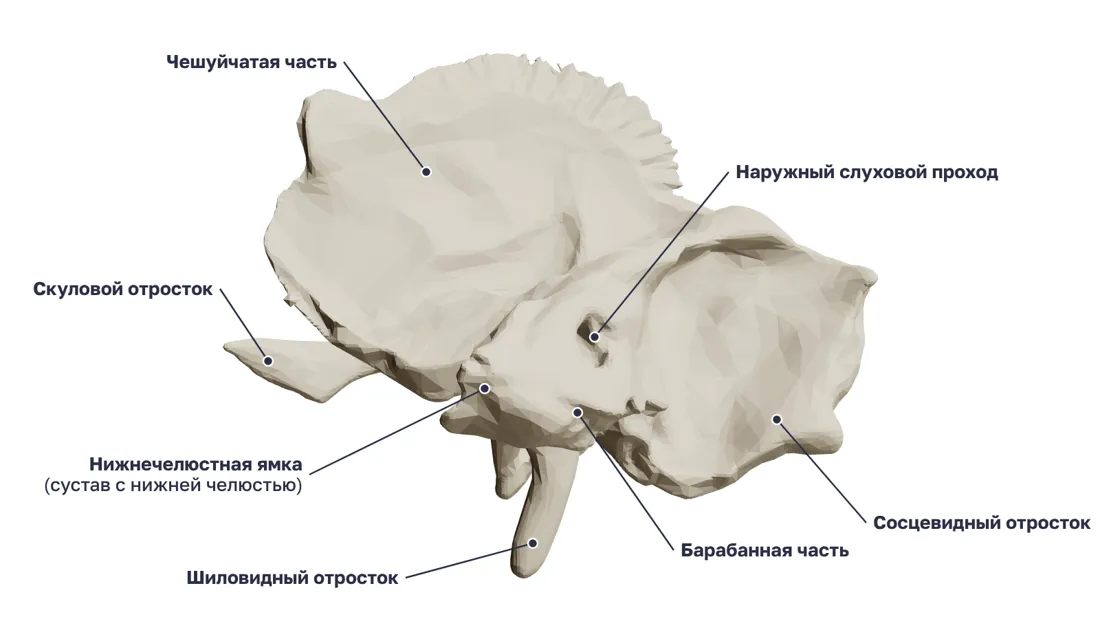
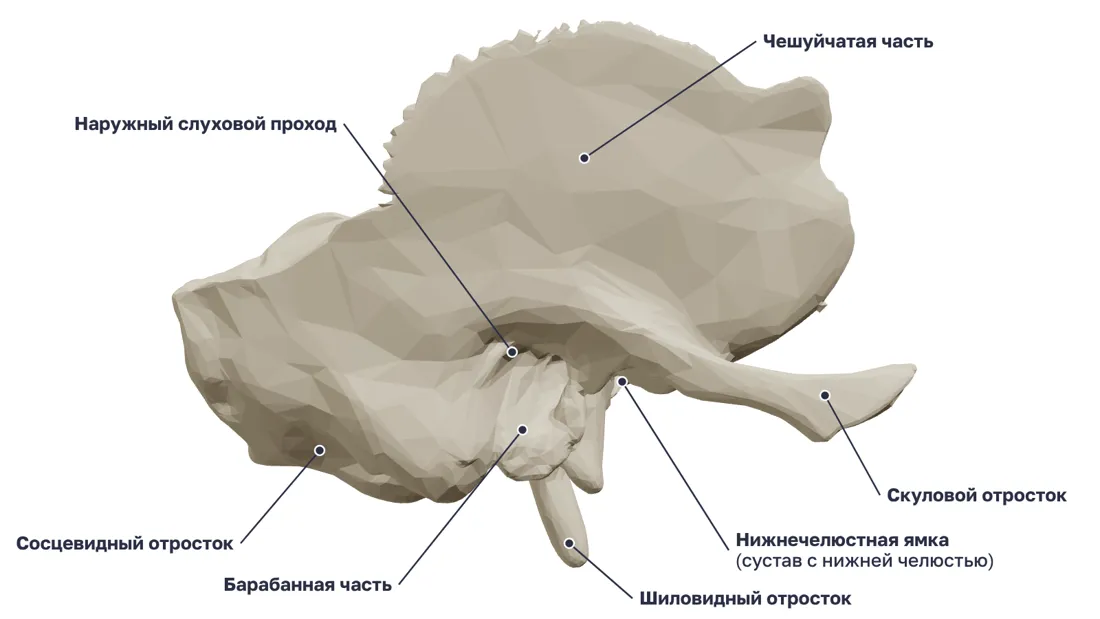
Анатомия 11: исправлен рисунок височной кости (вид снаружи), добавлен вид изнутри
Claude-Session: https://claude.ai/code/session_01KQtAKBGwSUDf54YMdr84nf

diff --git a/index.html b/index.html
@@ -6926,7 +6926,7 @@ const ANAT_11 = {
     ]},
     { title: 'Височная кость: строение', blocks: [
       ['sut', 'Парная кость основания и боковой стенки черепа. Внутри — орган слуха и равновесия, через неё проходят сонная артерия и лицевой нерв.'],
-      ['img', 'img/anat11/temporal-lateral.webp', 'Правая височная кость, вид снаружи. ' + BP3D],
+      ['img', 'img/anat11/temporal-lateral.webp', 'Правая височная кость, вид снаружи (спереди — справа). ' + BP3D],
       ['table', ['Часть', 'Что на ней'], [
         ['<b>Чешуйчатая</b> (чешуя)', 'скуловой отросток (вместе со скуловой костью — скуловая дуга), <b>нижнечелюстная ямка</b> и суставной бугорок — для ВНЧС'],
         ['<b>Барабанная</b>', 'изогнутая пластинка вокруг <b>наружного слухового прохода</b>'],
@@ -6940,6 +6940,7 @@ const ANAT_11 = {
         '<b>Нижняя</b> (снаружи, на основании черепа): яремная ямка, наружное отверстие сонного канала, каменистая ямочка, шиловидный отросток, <b>шилососцевидное отверстие</b>.',
         '<b>Верхушка</b> направлена вперёд и медиально, к клиновидной кости; здесь внутреннее отверстие сонного канала и вход в мышечно-трубный канал.',
       ]],
+      ['img', 'img/anat11/temporal-medial.webp', 'Правая височная кость, вид изнутри (со стороны полости черепа): пирамида и внутреннее слуховое отверстие. ' + BP3D],
       ['simple', 'Височная кость — как дом с подвалом: чешуя — стена, сосцевидный отросток — пристройка с «пустыми комнатками»-ячейками, а пирамида — подвал, где спрятано ухо и через который, как трубы, идут каналы с сосудами и нервами.'],
     ]},
     { title: 'Каналы височной кости и что через них проходит', blocks: [

diff --git a/src/data_anat.js b/src/data_anat.js
@@ -71,7 +71,7 @@ const ANAT_11 = {
     ]},
     { title: 'Височная кость: строение', blocks: [
       ['sut', 'Парная кость основания и боковой стенки черепа. Внутри — орган слуха и равновесия, через неё проходят сонная артерия и лицевой нерв.'],
-      ['img', 'img/anat11/temporal-lateral.webp', 'Правая височная кость, вид снаружи. ' + BP3D],
+      ['img', 'img/anat11/temporal-lateral.webp', 'Правая височная кость, вид снаружи (спереди — справа). ' + BP3D],
       ['table', ['Часть', 'Что на ней'], [
         ['<b>Чешуйчатая</b> (чешуя)', 'скуловой отросток (вместе со скуловой костью — скуловая дуга), <b>нижнечелюстная ямка</b> и суставной бугорок — для ВНЧС'],
         ['<b>Барабанная</b>', 'изогнутая пластинка вокруг <b>наружного слухового прохода</b>'],
@@ -85,6 +85,7 @@ const ANAT_11 = {
         '<b>Нижняя</b> (снаружи, на основании черепа): яремная ямка, наружное отверстие сонного канала, каменистая ямочка, шиловидный отросток, <b>шилососцевидное отверстие</b>.',
         '<b>Верхушка</b> направлена вперёд и медиально, к клиновидной кости; здесь внутреннее отверстие сонного канала и вход в мышечно-трубный канал.',
       ]],
+      ['img', 'img/anat11/temporal-medial.webp', 'Правая височная кость, вид изнутри (со стороны полости черепа): пирамида и внутреннее слуховое отверстие. ' + BP3D],
       ['simple', 'Височная кость — как дом с подвалом: чешуя — стена, сосцевидный отросток — пристройка с «пустыми комнатками»-ячейками, а пирамида — подвал, где спрятано ухо и через который, как трубы, идут каналы с сосудами и нервами.'],
     ]},
     { title: 'Каналы височной кости и что через них проходит', blocks: [

diff --git a/sw.js b/sw.js
@@ -1,5 +1,5 @@
 // Офлайн-кэш: страница — «сначала сеть», остальное — «сначала кэш»
-const CACHE = 's201-v36';
+const CACHE = 's201-v37';
 const SHELL = ['./', 'index.html', 'manifest.webmanifest', 'icons/icon-192.png', 'icons/icon-512.png', 'icons/apple-touch-icon.png'];
 self.addEventListener('install', e => { e.waitUntil(caches.open(CACHE).then(c => c.addAll(SHELL)).then(() => self.skipWaiting())); });
 self.addEventListener('activate', e => { e.waitUntil(caches.keys().then(ks => Promise.all(ks.filter(k => k !== CACHE).map(k => caches.delete(k)))).then(() => self.clients.claim())); });
